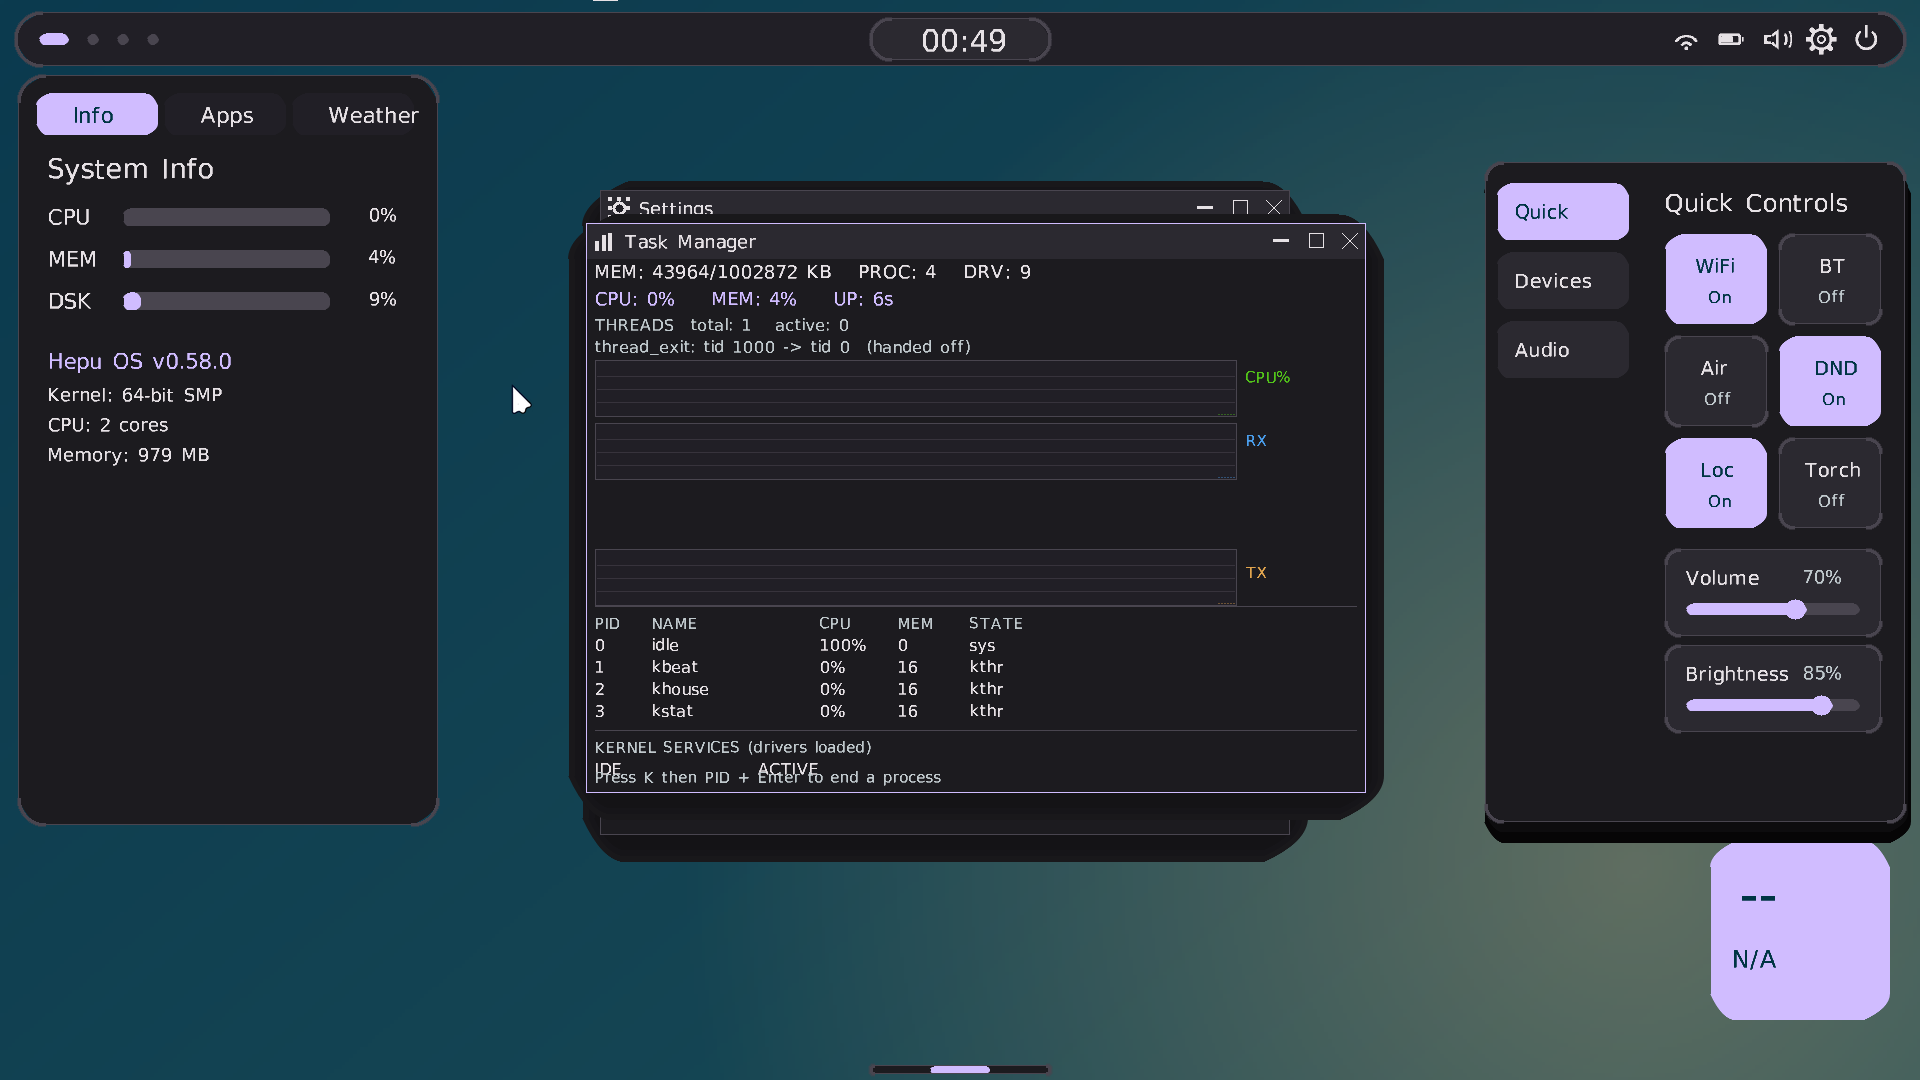
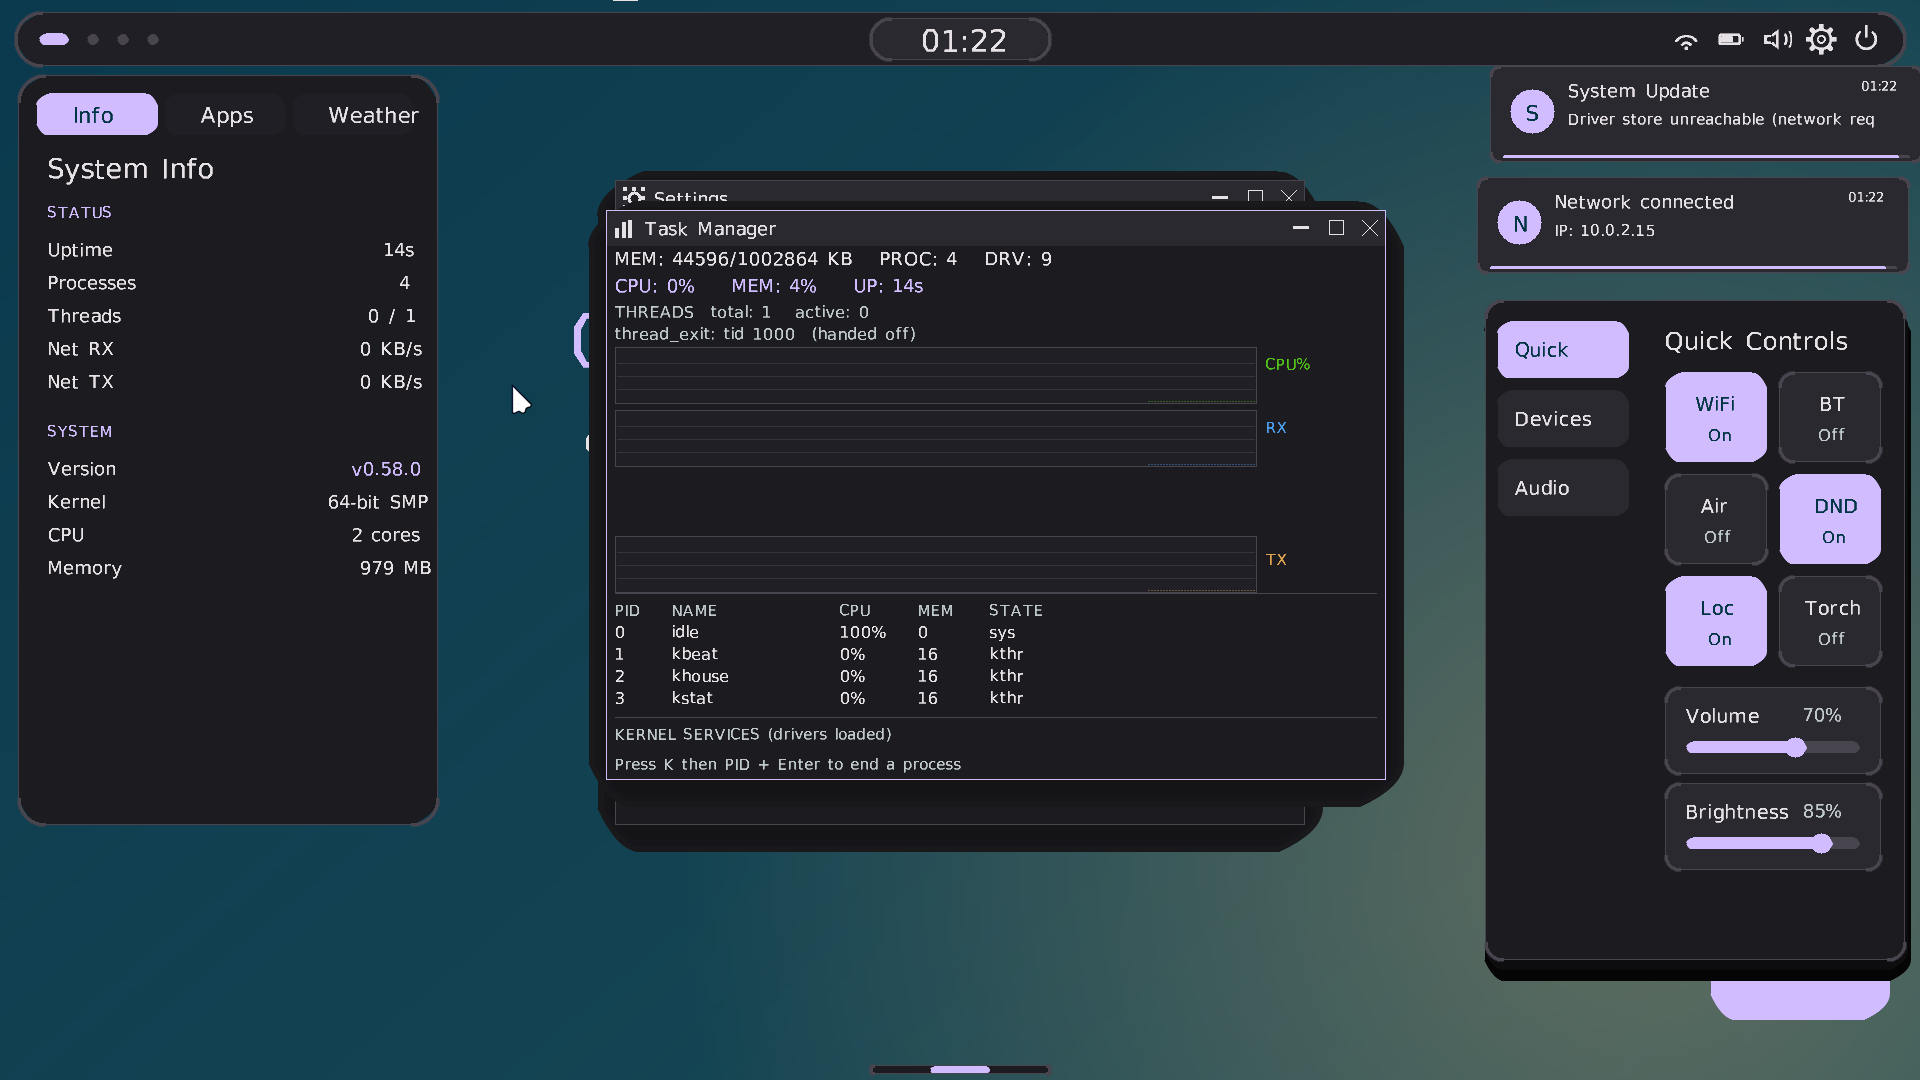
fix(desktop): 任务管理器服务列表与底部提示条重叠; 更新实机截图
- hs_apps.c: 服务列表绘制上限由未缩放的裸 22px 改为
  height - MC(16) - MC(14), 按缩放行高给底部提示条让位
  (根因: 上限是裸像素, 提示条走 MC 缩放, 窗口放大后两者撞在同一行)
- docs/assets/taskmgr-0.58.0.png: 换成修复后实机截图, 同时可见
  thread_exit 文案已无 '-> tid 0'
- FIXES_0_58_0.md §1.94

验证: 内核 829,128 B; 2/2 PASS EXC=0; check_docs warns=0 errors=0

diff --git a/kernel/arch/x86_64/hs_apps.c b/kernel/arch/x86_64/hs_apps.c
@@ -3699,7 +3699,10 @@ static void m_render(hs_window_t *w)
             font64_draw_string(fb, W, H, cx, cy, "KERNEL SERVICES (drivers loaded)",
                                g_shell.colors.text_secondary, MC(10));
             cy += MC(14);
-            for (int i = 0; i < dn && cy < w->y + w->height - 22; i++) {
+            /* V0.58.3: 旧上限是未缩放的裸 22px, 而底部提示条画在 height - MC(16),
+             * 两者实际落在同一行 —— 截图里 "IDE ACTIVE" 与 "Press K then PID..." 重叠。
+             * 这里按缩放后的行高给提示条让出位置。 */
+            for (int i = 0; i < dn && cy < w->y + w->height - MC(16) - MC(14); i++) {
                 char sline[96];
                 strcpy(sline, ds[i]->name ? ds[i]->name : "?");
                 while (hs_strlen(sline) < 20) strcpy(sline + hs_strlen(sline), " ");
